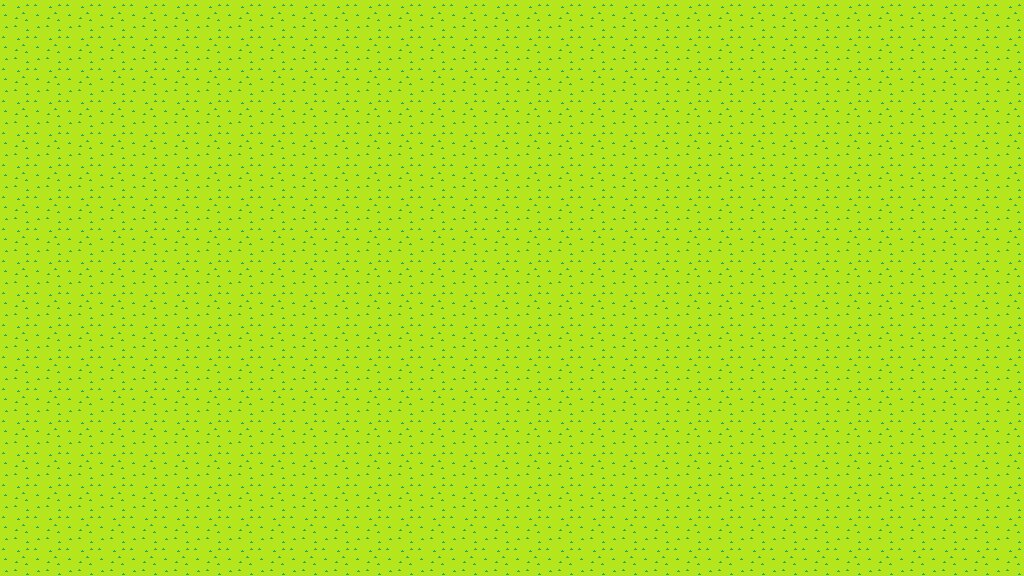
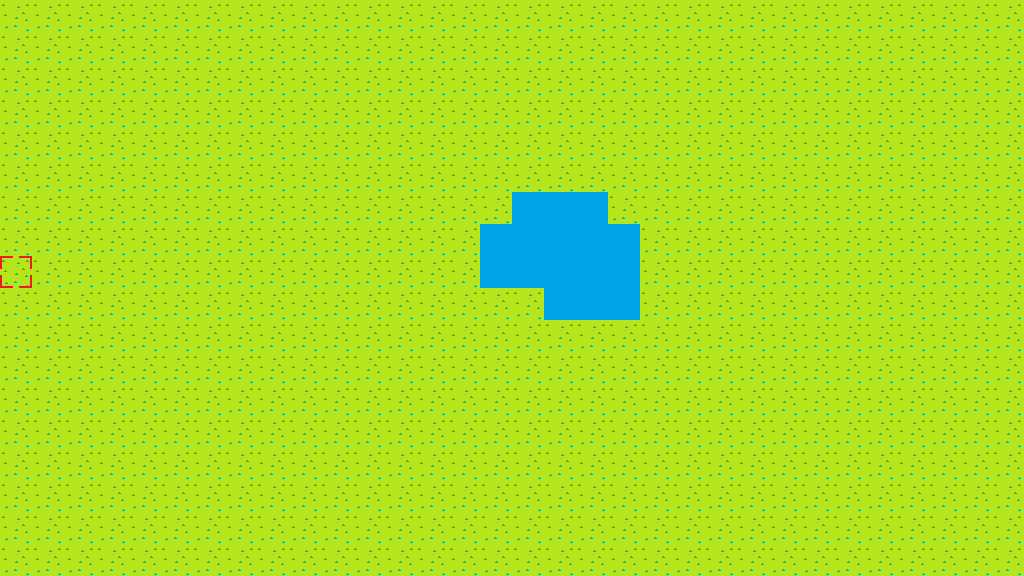
Improved render method structure + added custom cursor

Changed region(s): [[0.4688, 0.3125, 0.625, 0.5625], [0.0, 0.4375, 0.0312, 0.5]]

diff --git a/MinioningClient/Visualization/src/main/java/minioning/visuals/Render.java b/MinioningClient/Visualization/src/main/java/minioning/visuals/Render.java
@@ -7,7 +7,9 @@ package minioning.visuals;
 
 import com.badlogic.gdx.Gdx;
 import com.badlogic.gdx.graphics.Color;
+import com.badlogic.gdx.graphics.Cursor;
 import com.badlogic.gdx.graphics.GL20;
+import com.badlogic.gdx.graphics.Pixmap;
 import com.badlogic.gdx.graphics.Texture;
 import com.badlogic.gdx.graphics.g2d.BitmapFont;
 import com.badlogic.gdx.graphics.g2d.Sprite;
@@ -28,6 +30,10 @@ public class Render {
 
     private Texture backgroundTexture_1;
     private Texture backgroundTexture_2;
+
+    private Texture playerTexture;
+    private Texture enemyTexture;
+
     private static Sprite backgroundSprite;
 
     //  Get local values
@@ -50,8 +56,8 @@ public class Render {
 //        int[] bglayers = {0};
 //        int[] fglayers = {1, 2};
         // Clear screen
-        Gdx.gl.glClearColor(0, 0, 0, 1);
-        Gdx.gl.glClear(GL20.GL_COLOR_BUFFER_BIT);
+//        Gdx.gl.glClearColor(0, 0, 0, 1);
+//        Gdx.gl.glClear(GL20.GL_COLOR_BUFFER_BIT);
 
         // Run render methods
         drawSprites(world);
@@ -71,6 +77,10 @@ public class Render {
         font.setColor(Color.WHITE);
         font.getData().setScale(2f);
 
+        // Sets custom cursor
+        Cursor customCursor = Gdx.graphics.newCursor(new Pixmap(Gdx.files.internal(RESOURCE_ROOT + "graphics/" + "cursor.png")), 16, 16);
+        Gdx.graphics.setCursor(customCursor);
+
         // Draw
         batch.begin();
         font.draw(batch, "In: " + LocalData.getLocation(), width - 155, LocalData.getHeight(), 150, Align.right, false);
@@ -80,19 +90,28 @@ public class Render {
         // Dispose of objects
         batch.dispose();
         font.dispose();
+        customCursor.dispose();
     }
 
     public void loadTextures() {
 
-        System.out.println("Loading textures");
+        System.out.println("Loading bg textures");
         try {
             this.backgroundTexture_2 = new Texture(RESOURCE_ROOT + "map/" + "arena.png");
             this.backgroundTexture_1 = new Texture(RESOURCE_ROOT + "map/" + "wilderness.png");
-            System.out.println("Textures loaded succesfully");
+            System.out.println("bg textures loaded succesfully");
         } catch (Exception e) {
-            System.out.println("Failed to load textures: " + e);
+            System.out.println("Failed to load bg textures: " + e);
         }
-
+        System.out.println("Loading entity textures");
+        
+        try {
+            playerTexture = new Texture(Gdx.files.local(RESOURCE_ROOT + "graphics/" + "blue.png"));
+            enemyTexture = new Texture(Gdx.files.local(RESOURCE_ROOT + "graphics/" + "red.png"));
+            System.out.println("entity textures loaded succesfully");
+        } catch (Exception e) {
+            System.out.println("Failed loading entity textures: " + e);
+        }
     }
 
     // Draws sprites
@@ -107,7 +126,6 @@ public class Render {
 
                 String bgString = LocalData.getLocation();
 
-
                 try {
                     if (bgString.contentEquals("arena")) {
                         backgroundSprite = new Sprite(backgroundTexture_2);
@@ -117,7 +135,6 @@ public class Render {
                 } catch (Exception e) {
                     System.out.println("Error in render: " + e);
                 }
-
                 backgroundSprite.draw(batch);
             }
         }
@@ -126,15 +143,15 @@ public class Render {
 
             if (entity.getLocation().equals(LocalData.getLocation())) {
 
-                Texture texture;
                 if (entity.getSprite() == null) {
-                    if (entity.getOwner().equals(LocalData.getClientID())) {
+                    Sprite sprite;
 
-                        texture = new Texture(Gdx.files.local(RESOURCE_ROOT + "graphics/" + "blue.png"));
+                    // Loads appropriate sprites
+                    if (entity.getOwner().equals(LocalData.getClientID())) {
+                        sprite = new Sprite(playerTexture, 0, 0, 50, 50);
                     } else {
-                        texture = new Texture(Gdx.files.local(RESOURCE_ROOT + "graphics/" + "red.png"));
+                        sprite = new Sprite(enemyTexture, 0, 0, 50, 50);
                     }
-                    Sprite sprite = new Sprite(texture, 0, 0, 50, 50);
                     entity.setSprite(sprite);
                     sprite.setPosition(entity.getX() - sprite.getWidth() / 2, entity.getY() - sprite.getHeight() / 2);
                 }

diff --git a/MinioningClient/Visualization/src/main/java/minioning/visuals/VisualProcess.java b/MinioningClient/Visualization/src/main/java/minioning/visuals/VisualProcess.java
@@ -13,6 +13,7 @@ import org.openide.util.lookup.ServiceProvider;
 import com.badlogic.gdx.ApplicationListener;
 import com.badlogic.gdx.Gdx;
 import com.badlogic.gdx.Input;
+import com.badlogic.gdx.graphics.GL20;
 import com.badlogic.gdx.graphics.glutils.ShapeRenderer;
 import java.util.UUID;
 import java.util.concurrent.ConcurrentHashMap;
@@ -43,6 +44,8 @@ public class VisualProcess implements IProcessingService, ApplicationListener {
 
     @Override
     public void create() {
+        Gdx.graphics.setTitle("The Minioning");
+
         sr = new ShapeRenderer();
         render = new Render();
         render.loadTextures();
@@ -75,7 +78,9 @@ public class VisualProcess implements IProcessingService, ApplicationListener {
 
     @Override
     public void render() {
-
+        Gdx.gl.glClearColor(0, 0, 0, 1);
+        Gdx.gl.glClear(GL20.GL_COLOR_BUFFER_BIT);
+        
         render.render((ConcurrentHashMap<UUID, Entity>) world);
 
         if (getOutputList().containsKey(Events.MOVEMENT) == false) {
@@ -86,18 +91,18 @@ public class VisualProcess implements IProcessingService, ApplicationListener {
                 getOutputList().put(Events.MOVEMENT, click);
             }
         }
-            if (Gdx.input.isKeyPressed(Input.Keys.Q)) {
-                getOutputList().put(Events.SKILLQ, mouseClick());
-                System.out.println("Q is pressed");
-            }
-            if (Gdx.input.isKeyPressed(Input.Keys.W)) {
-                getOutputList().put(Events.SKILLW, "");
-                System.out.println("W is pressed");
-            }
-            if (Gdx.input.isKeyPressed(Input.Keys.E)) {
-                getOutputList().put(Events.SKILLE, "");
-                System.out.println("E is pressed");
-            
+        
+        if (Gdx.input.isKeyPressed(Input.Keys.Q)) {
+            getOutputList().put(Events.SKILLQ, mouseClick());
+            System.out.println("Q is pressed");
+        }
+        if (Gdx.input.isKeyPressed(Input.Keys.W)) {
+            getOutputList().put(Events.SKILLW, "");
+            System.out.println("W is pressed");
+        }
+        if (Gdx.input.isKeyPressed(Input.Keys.E)) {
+            getOutputList().put(Events.SKILLE, "");
+            System.out.println("E is pressed");
         }
     }
 

diff --git a/MinioningClient/Core/src/main/java/minioning/core/Launcher.java b/MinioningClient/Core/src/main/java/minioning/core/Launcher.java
@@ -226,6 +226,7 @@ public class Launcher extends Application {
                 } catch (Exception e) {
                 }
                 avatarnameField.clear();
+                selectionModel.select(3);
             }
         });
 
